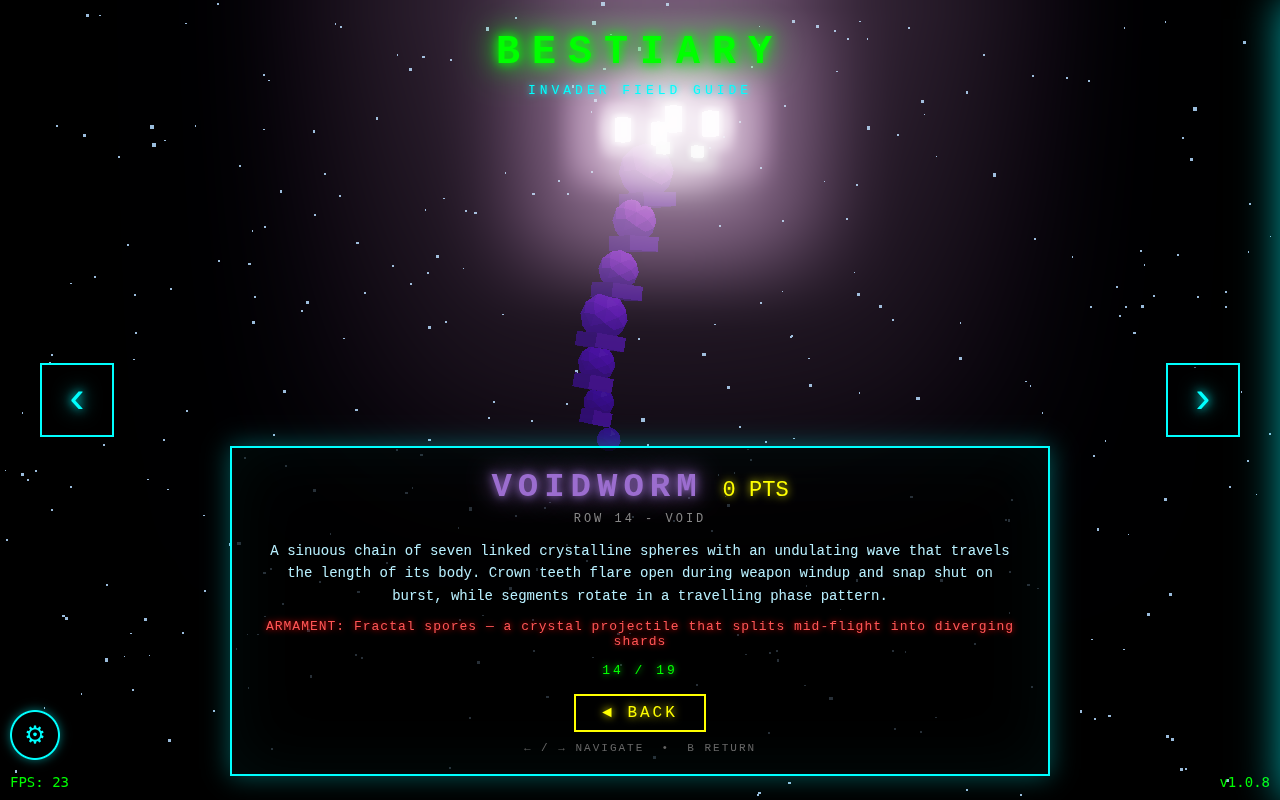
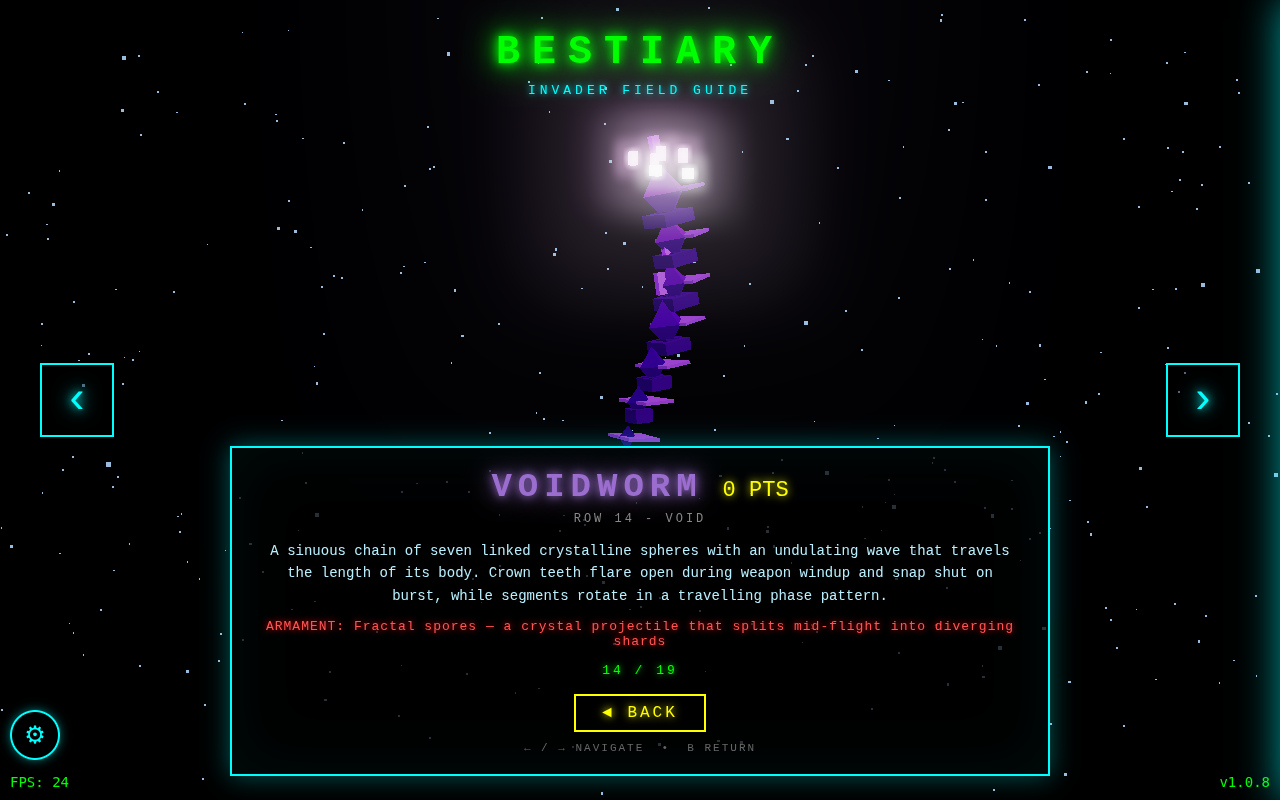
tooling: capture fails loudly on runtime JS errors; drop ad-hoc capture scripts
capture-invader.mjs now separates thrown JS errors from missing assets,
logs a JSERROR line to .vision-audit.log, prints a banner and exits 4.
Verified: exit 4 on 1dbc7f8 (147 errors), exit 0 on the fixed tree.

Deletes capture-voidworm.js/.mjs — hand-rolled puppeteer that bypassed
entry verification and the audit log, which is how an ungraded, broken
detail pass got committed. Skill and VOIDWORM-STATUS.md updated.

Changed region(s): [[0.25, 0.0, 0.7812, 0.5625]]

diff --git a/VOIDWORM-STATUS.md b/VOIDWORM-STATUS.md
@@ -4,36 +4,47 @@ Read this FIRST in any session (a Telegram reply is a fresh session with no
 memory of the cron runs). Update it after every grade and before releasing
 the lock. Keep it under ~60 lines: newest facts on top, prune stale detail.
 
-## Now (updated 2026-08-14)
+## Now (updated 2026-08-14 17:30)
 
 - Target: overall 8.0, confirmed twice (`grade-invader.py VOIDWORM --confirm`
-  exit 0). Best so far: 7 — single grades only, never confirmed.
-- Grade trail today (oldest → newest): 5, 5, 6, 7, 6, 7, 7, 6.
-- Weakest dimension: **detail** (4–5 in every grade today). Animation holds
-  at ~7 when the capture spans the full 7.0s period (FRAMES=11 GAP_MS=800).
-- HEAD: fff19f3 "octahedron facets over icosahedron blobs" — chosen by human
-  eye; the grader preferred the blobs, the humans did not. **Do not revert.**
-- Working tree clean. The 2026-08-14 16:42 cron run reported failure (did
-  not reach 8.0 within budget) and left no uncommitted edits behind.
-- Cron job c94c41ea9af6 is PAUSED while the human gives direction directly.
+  exit 0). **Current: 7.0** — silhouette 8, contrast 7, animation 7,
+  detail 6, cohesion 7.
+- HEAD: 5c8c593. Working tree clean. Cron c94c41ea9af6 PAUSED.
+- **Detail is finally moving**: it sat at 4–5 for every grade on 2026-08-14
+  until the spine/plate/bead pass (1dbc7f8) lifted it to 6. That direction
+  is working — keep going, do not abandon it.
+- Grader's `one_fix`: the purple segments read as *uniform faceted spheres*,
+  not crystals. Give them irregular, sharp, non-uniform geometry so they
+  reward a close look. That is the single highest-value change right now.
 
 ## Tried already — do not redo
 
-- Crystal spheres, core glow, brighter colour ramp, sinuous wave (a22c0c3).
-- Octahedron facets replacing icosahedron blobs (fff19f3) — kept, human-approved.
-- Icosahedron blobs — grader scored them higher, humans rejected them.
-- Short captures (~2.1s) — produce a false "animation is missing" critique;
-  always cover the full 7.0s period.
+- Dorsal spines, accent plates, joint beads (1dbc7f8) — detail 4/5 → 6. KEPT.
+- Octahedron facets over icosahedron blobs (fff19f3) — human-chosen. The
+  grader preferred the blobs; the humans did not. **Never revert this.**
+- Crystal spheres, core glow, brighter ramp, sinuous wave (a22c0c3).
+- Short captures (~2.1s) — produce a false "animation is missing" verdict.
+  VOIDWORM's period is 7.0s: always `FRAMES=11 GAP_MS=800`.
+
+## Burned once — do not repeat
+
+- 1dbc7f8 was committed with **no grade** and a **runtime crash**: `windup`
+  was read at lines 4848/4850/4863 but declared at 4871, a temporal dead
+  zone. `npm run build` passed; the browser threw `ReferenceError` on every
+  frame (148 in a 3-frame capture). Fixed in 5c8c593.
+- The cause: that run wrote its own `capture-voidworm.mjs` instead of using
+  `capture-invader.mjs`, so nothing verified the page and nothing was logged.
+  Both ad-hoc scripts are deleted. Use the sanctioned toolchain only.
+- `capture-invader.mjs` now exits **4** with a banner if the page throws.
+  Exit 4 = your frames are not evidence. Fix, recapture, then grade.
 
 ## Next
 
-- Raise **detail** without hurting silhouette: small secondary structures
-  (spines, segment plates, joint accents) that read at gameplay distance,
-  then recapture and regrade.
-- The grader is ±2 noisy on identical builds. Never revert on one low score —
-  look at the captures first, and only believe a pass or a regression after
-  two consecutive grades agree.
-- Any direction the human sends by Telegram outranks the grader's `one_fix`.
+1. Irregular crystalline geometry on the body segments (the `one_fix`).
+2. Recapture `FRAMES=11 GAP_MS=800`, confirm capture exits 0, then grade.
+3. The grader is ±2 noisy on identical builds — never revert on one low
+   score. Look at the frames first; believe a pass only after `--confirm`.
+4. Anything the human sends by Telegram outranks the grader's `one_fix`.
 
 ## Update template (replace sections above, keep headings)
 
